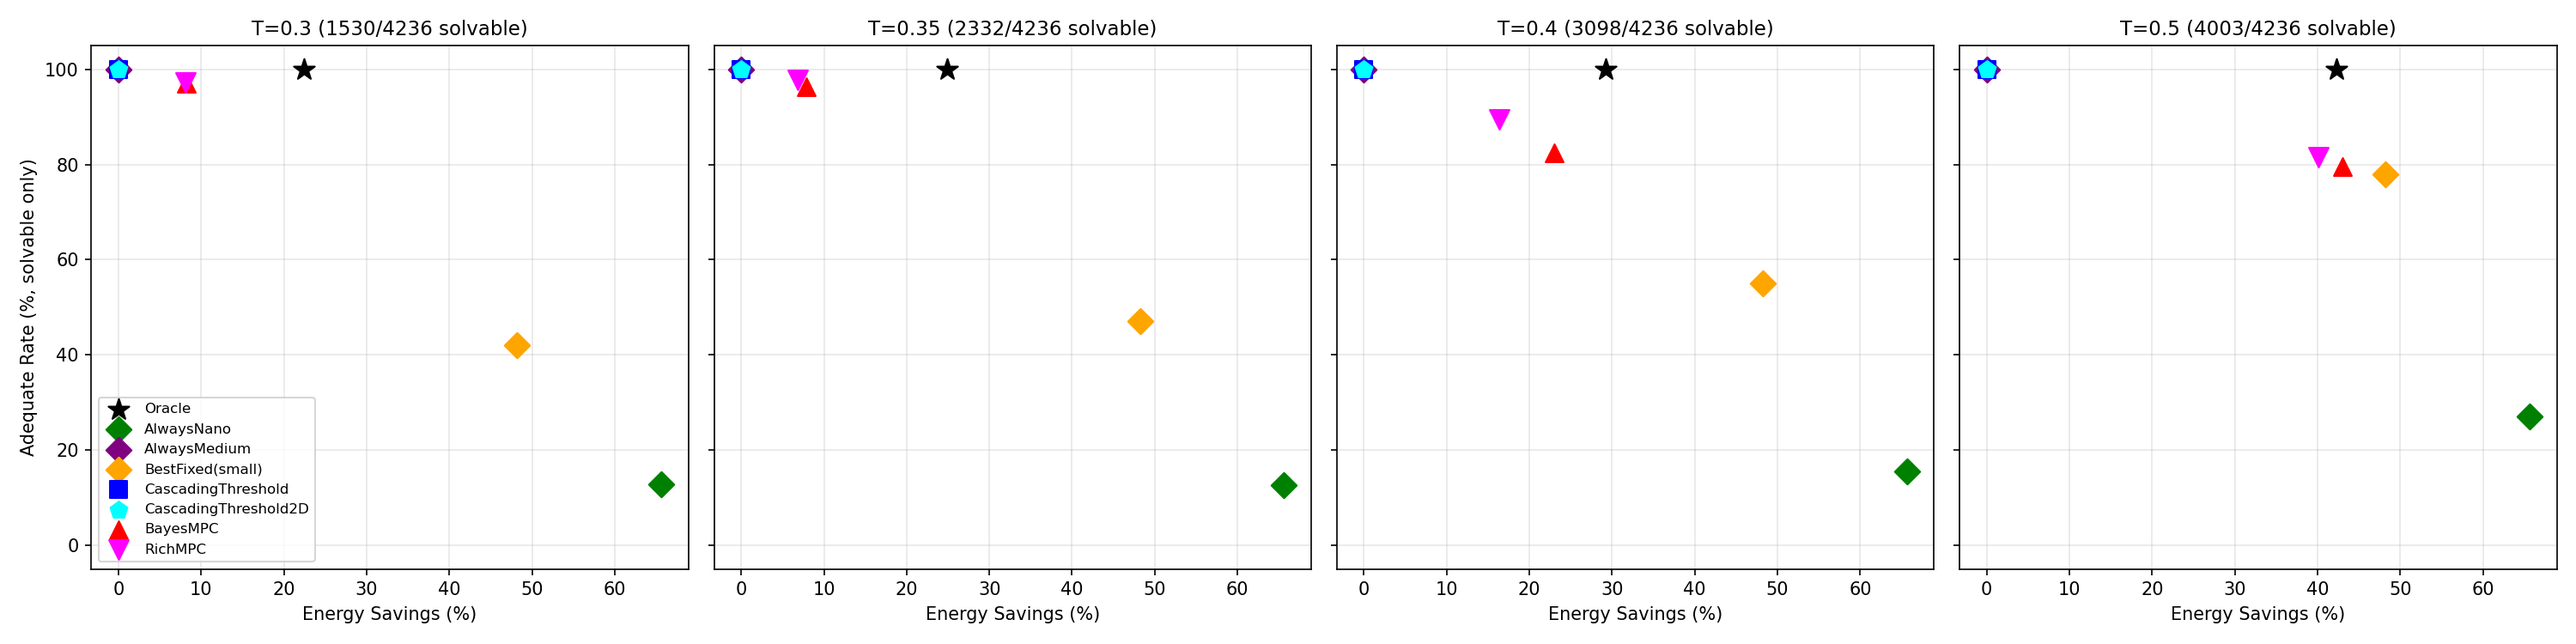
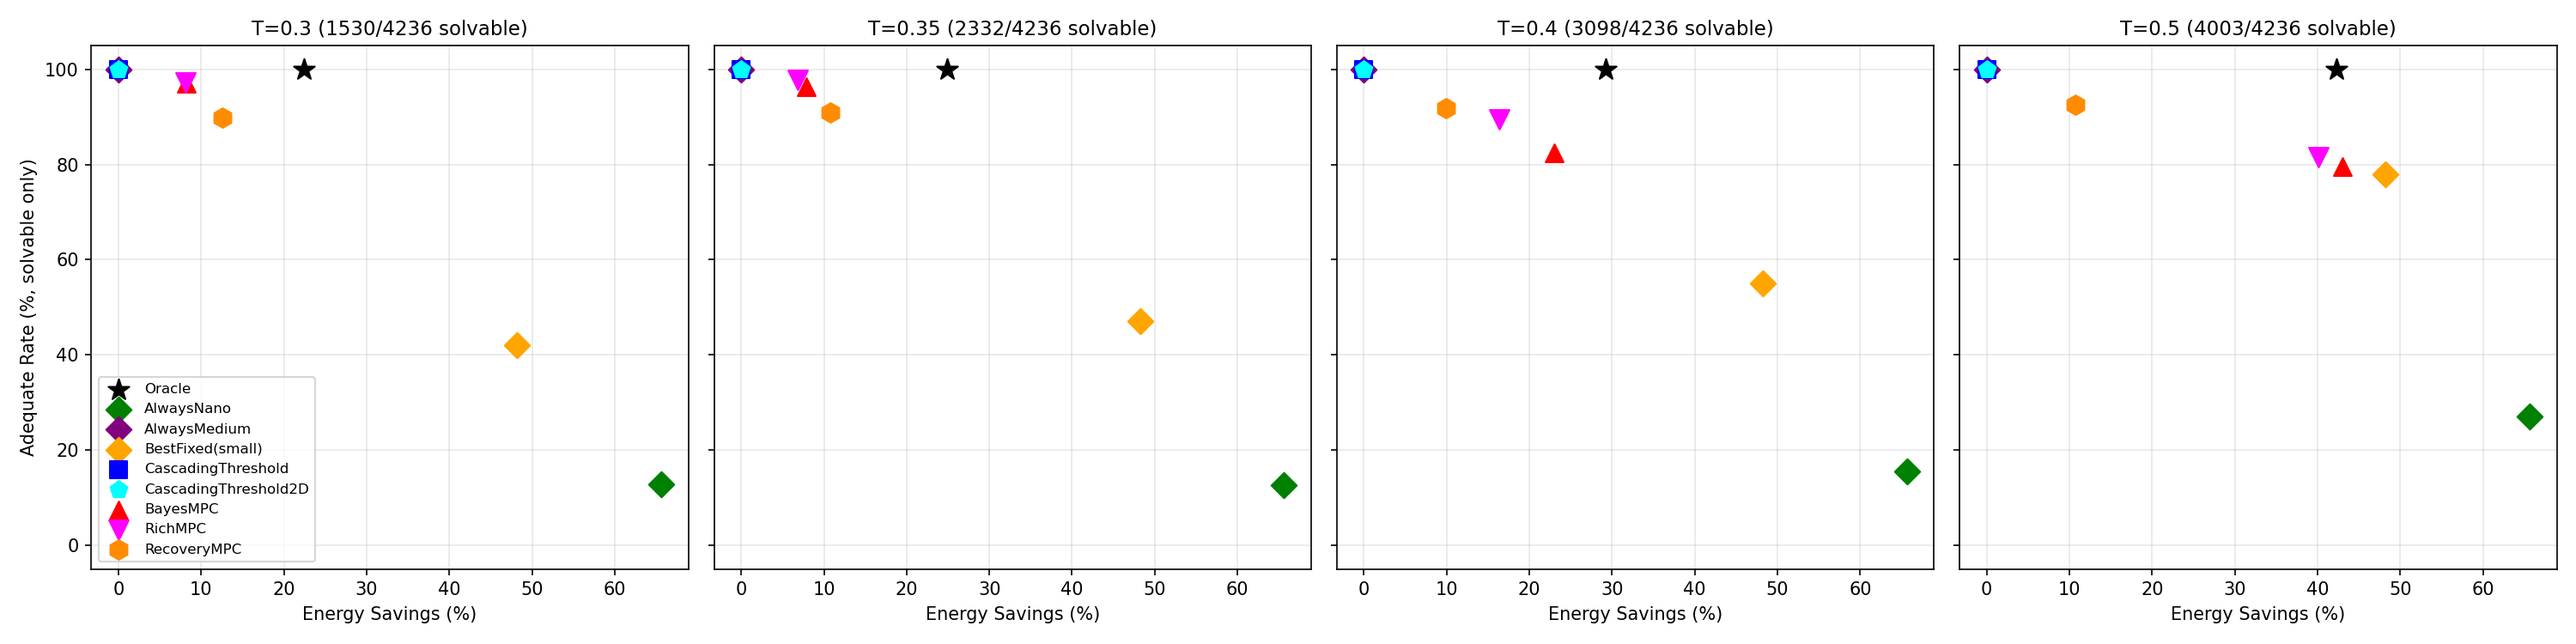
controller_rerun: add RecoveryMPC (uses recovery predictions directly)
RecoveryMPC avoids converting to absolute miss rates — uses each LSTM
output (pred_recovery_ns, pred_recovery_sm) once in the cost function.

Results: RecoveryMPC achieves highest adequacy at T=0.40 (91.8%) and
T=0.50 (92.5%), beating both BayesMPC and RichMPC on adequacy.
However, energy savings are modest (10-13%) because the grid search
converges on conservative configs that favor medium.

Model mix: ~9% nano, ~10% small, ~81% medium — stable across thresholds,
suggesting RecoveryMPC's decisions are threshold-independent (driven
by recovery magnitudes, not absolute miss rate targets).

diff --git a/controller_rerun/run_controller.py b/controller_rerun/run_controller.py
@@ -314,6 +314,64 @@ def optimize_bayes_mpc(train_df, threshold):
     return best_config
 
 
+def recovery_mpc(df, lambda_u, lambda_o, tau_ns, tau_sm):
+    """RecoveryMPC: uses recovery predictions directly, no miss rate conversion."""
+    e_norm = {0: E_NANO / E_MEDIUM, 1: E_SMALL / E_MEDIUM, 2: 1.0}
+
+    selections = []
+    rows = df.to_dict("records")
+
+    for row in rows:
+        rec_ns = row["pred_recovery_ns"]
+        rec_sm = row["pred_recovery_sm"]
+
+        # cost(nano)
+        c0 = e_norm[0] + lambda_u * rec_ns
+
+        # cost(small)
+        c1 = (e_norm[1]
+              + lambda_u * max(0, rec_sm - tau_sm)
+              + lambda_o * max(0, tau_ns - rec_ns))
+
+        # cost(medium)
+        c2 = (e_norm[2]
+              + lambda_o * max(0, tau_ns - rec_ns)
+              + lambda_o * max(0, tau_sm - rec_sm))
+
+        costs = [c0, c1, c2]
+        selections.append(int(np.argmin(costs)))
+
+    return selections
+
+
+def optimize_recovery_mpc(train_df, threshold):
+    lu_vals = [1.0, 3.0, 5.0, 10.0]
+    lo_vals = [0.5, 1.0, 2.0, 5.0]
+    tns_vals = [0.05, 0.10, 0.15, 0.20]
+    tsm_vals = [0.02, 0.05, 0.08, 0.10]
+
+    n_configs = len(lu_vals) * len(lo_vals) * len(tns_vals) * len(tsm_vals)
+    print(f"    Grid search: {n_configs} configs at threshold={threshold}", flush=True)
+
+    best_score = -1.0
+    best_config = {"lambda_u": 5.0, "lambda_o": 1.0, "tau_ns": 0.10, "tau_sm": 0.05}
+
+    for lu in lu_vals:
+        for lo in lo_vals:
+            for tns in tns_vals:
+                for tsm in tsm_vals:
+                    sels = recovery_mpc(train_df, lu, lo, tns, tsm)
+                    metrics = evaluate(train_df, sels, threshold)
+                    score = (metrics["adequate_rate"] / 100
+                             + 0.3 * metrics["energy_savings_pct"] / 100)
+                    if score > best_score:
+                        best_score = score
+                        best_config = {"lambda_u": lu, "lambda_o": lo,
+                                       "tau_ns": tns, "tau_sm": tsm}
+
+    return best_config
+
+
 def rich_mpc(df, lambda_u, lambda_o, threshold):
     """RichMPC: Bayes Risk with both lambda_under and lambda_over."""
     e_norm = {m: ENERGY[m] / E_MEDIUM for m in range(3)}
@@ -478,6 +536,23 @@ def main():
               f"nano={metrics['pct_nano']:.0f}% sm={metrics['pct_small']:.0f}% "
               f"med={metrics['pct_medium']:.0f}%  config={best_rich}", flush=True)
 
+        # RecoveryMPC
+        print(f"    Optimizing RecoveryMPC...", flush=True)
+        best_rec = optimize_recovery_mpc(train_df, threshold)
+        sels = recovery_mpc(test_df, **best_rec)
+        metrics = evaluate(test_df, sels, threshold)
+        metrics["threshold"] = threshold
+        metrics["controller"] = (f"RecoveryMPC(lu={best_rec['lambda_u']},"
+                                 f"lo={best_rec['lambda_o']},"
+                                 f"tns={best_rec['tau_ns']},"
+                                 f"tsm={best_rec['tau_sm']})")
+        all_results.append(metrics)
+        print(f"    {'RecoveryMPC':25s}: savings={metrics['energy_savings_pct']:5.1f}%  "
+              f"adequate={metrics['adequate_rate']:5.1f}%  "
+              f"correct={metrics['correct_rate']:5.1f}%  "
+              f"nano={metrics['pct_nano']:.0f}% sm={metrics['pct_small']:.0f}% "
+              f"med={metrics['pct_medium']:.0f}%  config={best_rec}", flush=True)
+
     # Save TSV
     cols = ["threshold", "n_solvable", "n_total", "controller",
             "energy_savings_pct", "adequate_rate", "correct_rate",
@@ -535,6 +610,12 @@ def main():
         ax.scatter(rich_r["energy_savings_pct"], rich_r["adequate_rate"],
                   c="magenta", s=120, marker="v", zorder=6, label="RichMPC")
 
+        # RecoveryMPC
+        rec_r = next(r for r in t_results
+                     if r["controller"].startswith("RecoveryMPC"))
+        ax.scatter(rec_r["energy_savings_pct"], rec_r["adequate_rate"],
+                  c="darkorange", s=120, marker="h", zorder=6, label="RecoveryMPC")
+
         n_solv = next(r for r in t_results)["n_solvable"]
         n_tot = next(r for r in t_results)["n_total"]
         ax.set_title(f"T={threshold} ({n_solv}/{n_tot} solvable)", fontsize=11)
@@ -573,16 +654,19 @@ def main():
               f"{bayes_r['adequate_rate']:5.1f}% adequate")
         print(f"    CascadingThreshold: {cascade_r['energy_savings_pct']:5.1f}% savings, "
               f"{cascade_r['adequate_rate']:5.1f}% adequate")
+        rec_r = next(r for r in t_results
+                     if r["controller"].startswith("RecoveryMPC"))
         print(f"    CascThreshold2D:    {cascade2d_r['energy_savings_pct']:5.1f}% savings, "
               f"{cascade2d_r['adequate_rate']:5.1f}% adequate")
+        print(f"    RecoveryMPC:        {rec_r['energy_savings_pct']:5.1f}% savings, "
+              f"{rec_r['adequate_rate']:5.1f}% adequate")
 
     # ── Comparison table ─────────────────────────────────────────
     print(f"\n{'='*70}")
-    print(f"  COMPARISON: BayesMPC vs RichMPC vs Oracle")
+    print(f"  COMPARISON: BayesMPC vs RichMPC vs RecoveryMPC vs Oracle")
     print(f"{'='*70}")
-    print(f"  {'Threshold':>9s} | {'BayesMPC savings/adq':>22s} | "
-          f"{'RichMPC savings/adq':>22s} | {'Oracle savings':>14s} | "
-          f"{'RichMPC nano%/sm%/med%':>22s}")
+    print(f"  {'Thresh':>6s} | {'BayesMPC':>16s} | {'RichMPC':>16s} | "
+          f"{'RecoveryMPC':>16s} | {'Oracle':>8s} | {'RecMPC model mix':>20s}")
     print(f"  {'-'*95}")
     for threshold in THRESHOLDS:
         t_results = [r for r in all_results if r["threshold"] == threshold]
@@ -591,11 +675,14 @@ def main():
                        if r["controller"].startswith("BayesMPC"))
         rich_r = next(r for r in t_results
                       if r["controller"].startswith("RichMPC"))
-        print(f"  {threshold:>9.2f} | "
-              f"{bayes_r['energy_savings_pct']:5.1f}% / {bayes_r['adequate_rate']:5.1f}%    | "
-              f"{rich_r['energy_savings_pct']:5.1f}% / {rich_r['adequate_rate']:5.1f}%    | "
-              f"{oracle_r['energy_savings_pct']:5.1f}%         | "
-              f"{rich_r['pct_nano']:4.0f}% / {rich_r['pct_small']:4.0f}% / {rich_r['pct_medium']:4.0f}%")
+        rec_r = next(r for r in t_results
+                     if r["controller"].startswith("RecoveryMPC"))
+        print(f"  {threshold:>6.2f} | "
+              f"{bayes_r['energy_savings_pct']:5.1f}%/{bayes_r['adequate_rate']:5.1f}% | "
+              f"{rich_r['energy_savings_pct']:5.1f}%/{rich_r['adequate_rate']:5.1f}% | "
+              f"{rec_r['energy_savings_pct']:5.1f}%/{rec_r['adequate_rate']:5.1f}% | "
+              f"{oracle_r['energy_savings_pct']:5.1f}%  | "
+              f"{rec_r['pct_nano']:4.0f}/{rec_r['pct_small']:4.0f}/{rec_r['pct_medium']:4.0f}%")
 
     elapsed = time.time() - t_start
     print(f"\n  Total time: {elapsed:.1f}s", flush=True)
